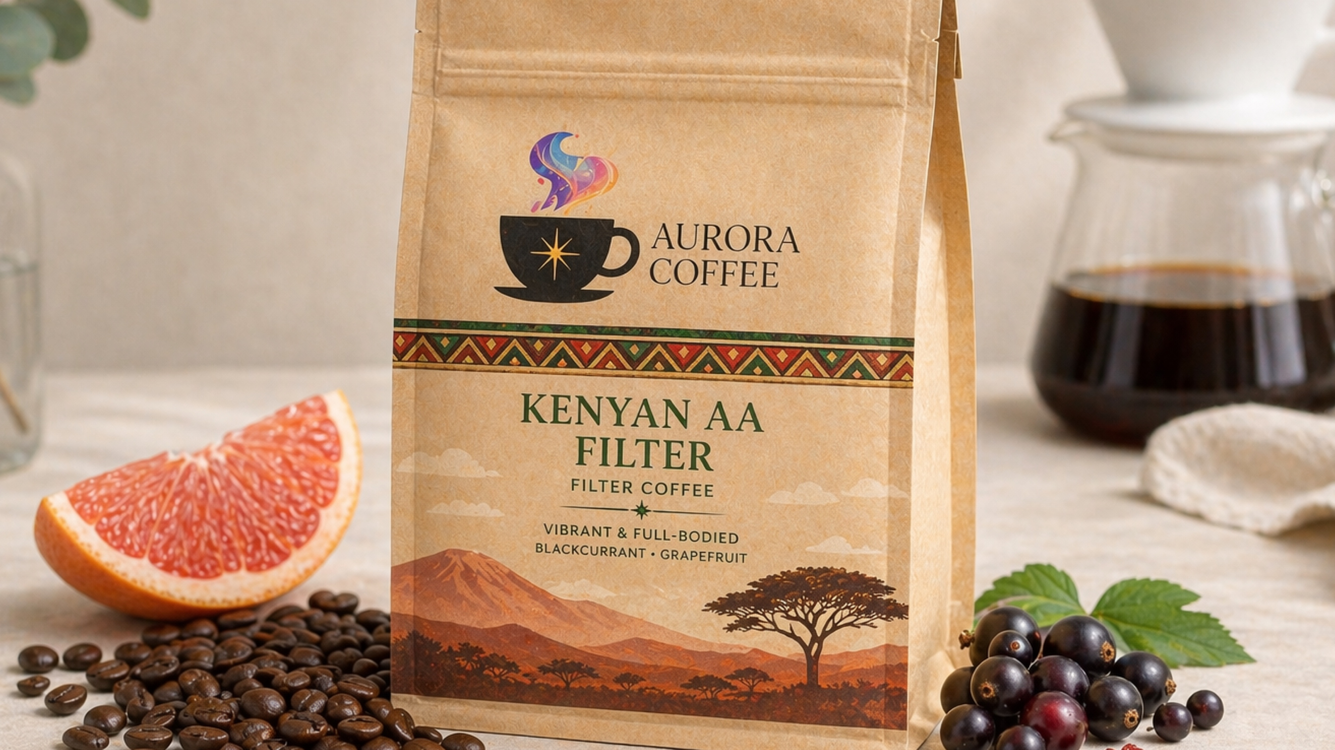
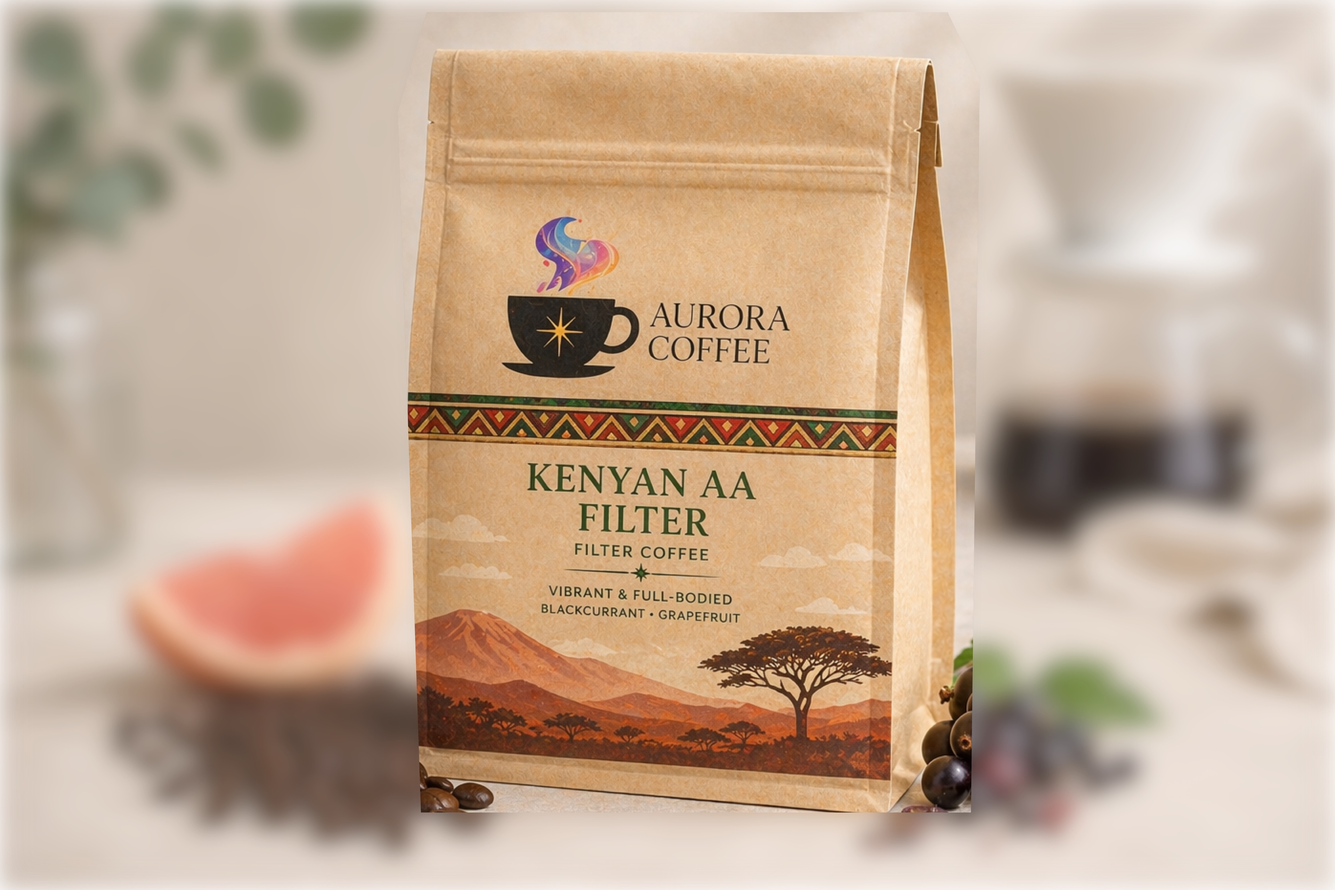
resize the bags right

diff --git a/Frontend/src/components/ProductCard.jsx b/Frontend/src/components/ProductCard.jsx
@@ -9,6 +9,7 @@ import {
   isCoffeeProduct,
 } from '../lib/products'
 import { getTaxInclusionCopy } from '../lib/tax'
+import { getProductGalleryImages } from '../lib/productImages'
 import FavoriteToggleButton from './FavoriteToggleButton'
 import LiquidGlassButton from './LiquidGlassButton'
 import LiquidGlassFrame from './LiquidGlassFrame'
@@ -27,6 +28,7 @@ export default function ProductCard({ product, compact = false }) {
   const typeLabel = getProductTypeLabel(product)
   const categoryLabel = getProductCategoryLabel(product)
   const showCategory = categoryLabel && categoryLabel !== typeLabel
+  const cardImages = getProductGalleryImages(product).slice(0, 1)
 
   return (
     <LiquidGlassFrame
@@ -41,7 +43,13 @@ export default function ProductCard({ product, compact = false }) {
         className="aurora-product-card-media-link"
         aria-label={`View ${product.name}`}
       >
-        <ProductMedia product={product} className="is-card" />
+        <ProductMedia
+          product={product}
+          images={cardImages}
+          showControls={false}
+          showDots={false}
+          className="is-card"
+        />
       </Link>
 
       <Link to={detailRoute} className="block flex-1">

diff --git a/Frontend/src/styles/34-product-cards.css b/Frontend/src/styles/34-product-cards.css
@@ -47,12 +47,12 @@
 }
 
 .aurora-product-media.is-card {
-  aspect-ratio: 16 / 9;
+  aspect-ratio: 3 / 2;
   border-radius: 1.55rem;
 }
 
 .aurora-product-media.is-detail {
-  aspect-ratio: 16 / 9;
+  aspect-ratio: 3 / 2;
   border-radius: 1.85rem;
 }
 
